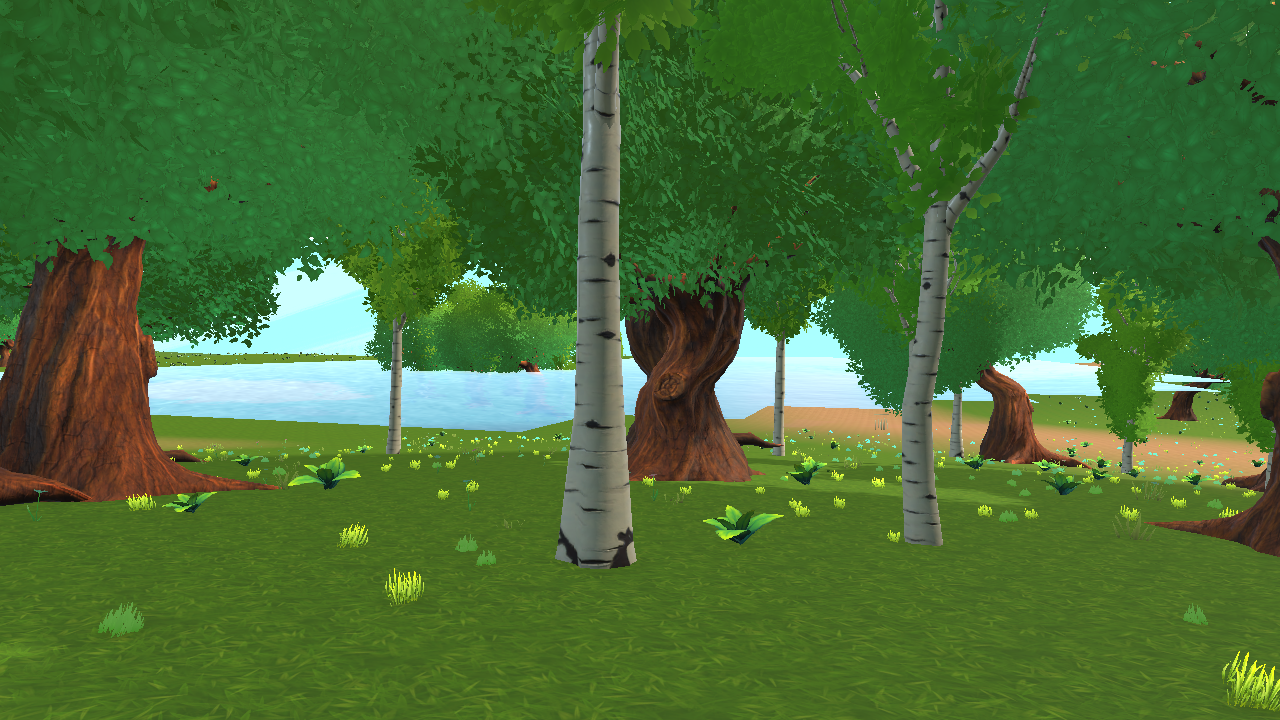
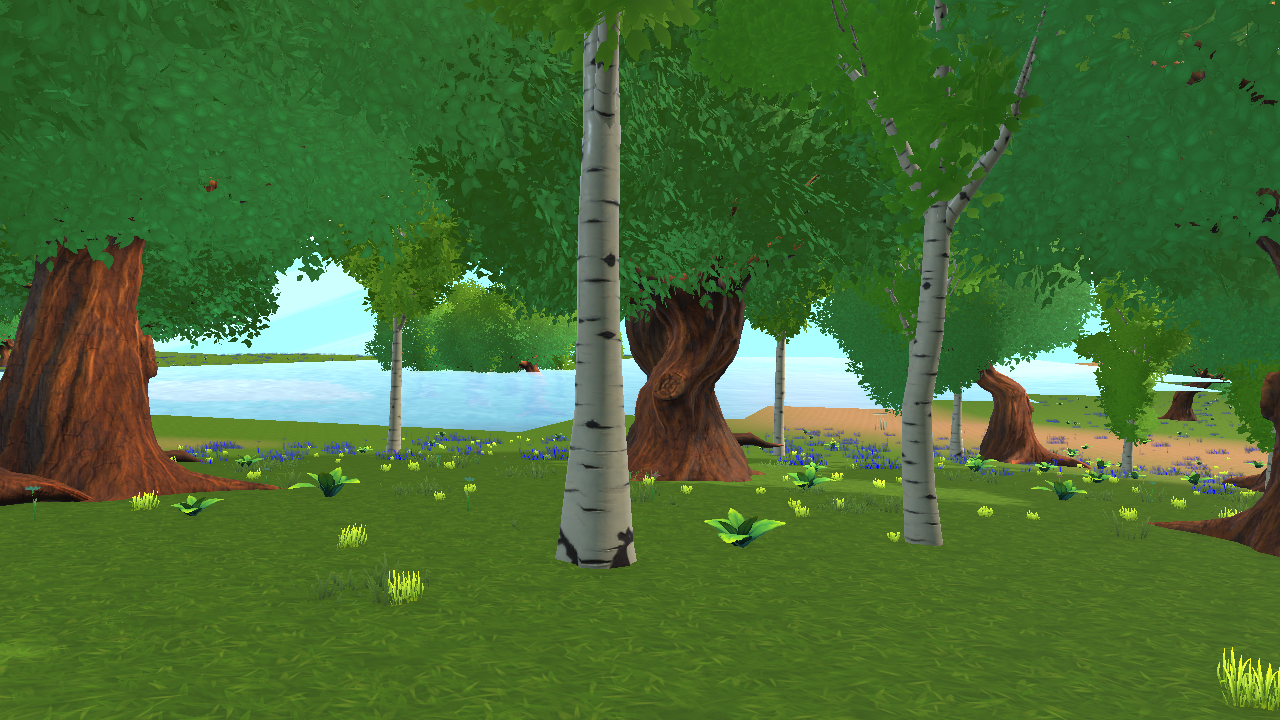
TD-132: THE VENDOR'S OWN MANUAL ANSWERED FOUR FAILED ATTEMPTS IN ONE SENTENCE (D-248)
EP order: read the asset vendor's readme and how the environment is meant to be set up.
Nobody ever had. Both packs ship a PDF, and the Village Pack's chapter "Environment
setup - Terrain Tool" says, verbatim:

  "It's important to note that bushes/leaves and grass will not work on the terrain as
   'Detail Objects' or 'Grass Texture'. The prefabs should be added as 'Tree Objects',
   because the built-in grass shader would otherwise override our custom shaders.
   This is not a limitation of the package, but rather a limitation of Unity."

That is the whole story. D-215d tried the detail system three ways -- instanced mesh,
non-instanced mesh, billboard -- and got 1,27M blades Unity itself validated and that
could not be seen at three metres. D-246 abandoned it and scattered 100 000 real
MeshRenderers instead, at double the frame time. NEITHER PATH COULD HAVE WORKED: Unity's
detail renderer SUBSTITUTES its own grass shader for the prefab's material, and the only
reason these plants look like anything is the pack's TidalFlask wind shader with its
ground fade and wind tint.

Verified before rebuilding anything: the pack's grass prefabs carry 0 colliders and a
LODGroup each -- authored for the tree system -- and the shader's ground fade reads UV,
not object Y, which was the one real risk in our old mesh merge.

Same placement law to the hash (not a blade moved); the blades are now sown as
TreeInstances instead of instantiated and merged. treeDistance 260 m, no billboards.
[…]

diff --git a/Assets/Emergence/Fas3/Runtime/Fas3NatureScatter.cs b/Assets/Emergence/Fas3/Runtime/Fas3NatureScatter.cs
@@ -125,6 +125,7 @@ namespace Emergence.Runtime
             tuftRoot.SetParent(parent, false);
             // where the eye stands. A flag per tile beats a distance test per tuft, and it is a pure
             // read of exported hut positions - no RNG, so two runs of one world grow the same meadow.
+            var treeInstances = new List<TreeInstance>();
             bool[] near = null;
             if (S.huts != null && S.huts.Length > 0)
             {
@@ -173,9 +174,9 @@ namespace Emergence.Runtime
                     // grass tufts on open meadow and forest floor - the ground the player walks on.
                     // Kept under their OWN parent so the batching pass can find them without guessing.
                     if ((t == 'g' || t == 'f') && tufts.Count > 0)
-                        tuftN += Place(S, tuftRoot, tufts, x, y,
-                                       near != null && near[y * S.W + x] ? TuftsNearSettlement : TuftsPerMeadowTile,
-                                       59, ref budget, Bed.Tuft, true);
+                        tuftN += SowTufts(S, tufts, x, y,
+                                          near != null && near[y * S.W + x] ? TuftsNearSettlement : TuftsPerMeadowTile,
+                                          59, ref budget, treeInstances);
 
                     if (budget >= PlacementsPerFrame) { budget = 0; yield return null; }
                 }
@@ -199,12 +200,11 @@ namespace Emergence.Runtime
             // read as texture, and the next move is NOT a fourth density guess -- it is the height of
             // one tuft in metres, which nobody had ever printed. Sampled before the merge, because a
             // merged block has no individual bounds left to ask.
-            TuftHeightNote = MeasureTufts(tuftRoot);
-            int tuftDrawn = CombineTufts(tuftRoot);
+            int tuftDrawn = SowMeadow(S, tufts, treeInstances);
 
             Placed = treeN + rockN + bushN + trunkN + tuftN;
             LastNote = "nature: " + treeN + " trees, " + rockN + " rocks, " + bushN + " bushes, " + trunkN + " fallen trunks, "
-                     + tuftN + " grass tufts merged into " + tuftDrawn + " meshes"
+                     + tuftN + " grass tufts sown as terrain trees (" + tuftDrawn + " prototypes)"
                      + "  (sets: " + trees.Count + "/" + rocks.Count + "/" + bushes.Count + "/" + tufts.Count + ")";
             LastNote += "  | " + TuftHeightNote;
         }
@@ -213,6 +213,118 @@ namespace Emergence.Runtime
         /// which is coarse enough to collapse the count and fine enough that frustum culling still
         /// throws most of the meadow away. Returns the number of renderers left standing.</summary>
         const float TuftBlock = 48f;
+
+
+        // ---- THE MEADOW, THE WAY THE PACK'S OWN DOCUMENTATION SAYS TO BUILD IT (D-248) ----
+        //
+        // From "Documentation - FANTASTIC Village Pack", chapter "Environment setup - Terrain Tool",
+        // in the vendor's own words:
+        //
+        //     "It's important to note that bushes/leaves and grass will not work on the terrain as
+        //      'Detail Objects' or 'Grass Texture'. The prefabs should be added as 'Tree Objects',
+        //      because the built-in grass shader would otherwise override our custom shaders.
+        //      This is not a limitation of the package, but rather a limitation of Unity."
+        //
+        // That paragraph is the answer to four failed attempts. D-215d tried the detail system three
+        // ways (instanced mesh, non-instanced mesh, billboard) and got a validated million blades that
+        // drew nothing usable; D-246 gave up on it and scattered a hundred thousand MeshRenderers
+        // instead, which cost double the frame time for a meadow that still read thin. The detail
+        // path was never going to work with this pack, because Unity's detail renderer SUBSTITUTES
+        // its own grass shader for the material on the prefab -- and the whole reason these plants
+        // look like anything is the pack's TidalFlask wind shader, with its ground fade and its wind
+        // tint. The terrain TREE system keeps the prefab's own material, and the pack ships every one
+        // of these plants with a LODGroup already on it, which is the shape the tree renderer wants.
+        //
+        // So: same placement law as before, to the hash -- the meadow does not move a blade -- but
+        // the blades are sown as tree instances rather than instantiated and merged. Unity culls and
+        // LODs them for us, the wind shader survives, and the frame stops paying for a hundred
+        // thousand renderers. Deterministic: every position, pick and size is hash(tile, index).
+        static int SowTufts(WorldState S, List<GameObject> set, int x, int y, float perTile, int salt,
+                            ref int budget, List<TreeInstance> outp)
+        {
+            if (set.Count == 0) return 0;
+            // identical clumping to Place(): some tiles crowd, others stay open
+            perTile *= 0.30f + 1.55f * Mathf.PerlinNoise(x * 0.17f + salt * 0.31f, y * 0.17f + salt * 0.13f);
+            int count = Mathf.FloorToInt(perTile) + (Hash01(x, y, salt) < perTile - Mathf.Floor(perTile) ? 1 : 0);
+            var terrain = Terrain.activeTerrain;
+            if (terrain == null) return 0;
+            var td = terrain.terrainData;
+            var origin = terrain.transform.position;
+
+            for (int i = 0; i < count; i++)
+            {
+                int proto = (int)(Hash(x, y, salt + 100 + i) % (uint)set.Count);
+                float jx = Hash01(x, y, salt + 200 + i) - 0.5f, jy = Hash01(x, y, salt + 300 + i) - 0.5f;
+                var w = Ground(S, x + jx * 0.98f, y + jy * 0.98f);
+
+                // the same size law the scattered version used, kept so the picture is comparable:
+                // the pack's own plants sit in one band, the Dreamscape detail props in the other.
+                var name = set[proto].name;
+                float sc = name.StartsWith("P_ENV")
+                    ? 0.38f + Hash01(x, y, salt + 600 + i) * 0.34f
+                    : 0.45f + Hash01(x, y, salt + 600 + i) * 0.50f;
+
+                float nx = (w.x - origin.x) / td.size.x;
+                float nz = (w.z - origin.z) / td.size.z;
+                if (nx < 0f || nz < 0f || nx > 1f || nz > 1f) continue;   // off the terrain is not a place
+
+                outp.Add(new TreeInstance
+                {
+                    position       = new Vector3(nx, 0f, nz),   // snapped to the heightmap on apply
+                    prototypeIndex = proto,
+                    widthScale     = sc,
+                    heightScale    = sc,
+                    rotation       = (Hash(x, y, salt + 400 + i) % 360u) * Mathf.Deg2Rad,
+                    color          = Color.white,
+                    lightmapColor  = Color.white
+                });
+                budget++;
+            }
+            return count;
+        }
+
+        /// <summary>Hand the whole meadow to the terrain in one call and tell it how far to draw.
+        /// Returns the prototype count so the report can say what the world is made of.</summary>
+        static int SowMeadow(WorldState S, List<GameObject> set, List<TreeInstance> instances)
+        {
+            var terrain = Terrain.activeTerrain;
+            if (terrain == null || set.Count == 0) { TuftHeightNote = "tufts: no terrain to sow into"; return 0; }
+            var td = terrain.terrainData;
+
+            var protos = new TreePrototype[set.Count];
+            for (int i = 0; i < set.Count; i++) protos[i] = new TreePrototype { prefab = set[i], bendFactor = 0f };
+            td.treePrototypes = protos;
+            td.SetTreeInstances(instances.ToArray(), true);   // true = snap each one to the heightmap
+
+            // Grass is not a landmark: draw it near, drop it far. Billboards are left off because
+            // these prefabs carry no billboard asset -- a grass blade at 200 m is one pixel and is
+            // better culled than faked.
+            terrain.treeDistance = 260f;
+            terrain.treeBillboardDistance = 0f;
+            terrain.treeCrossFadeLength = 25f;
+            terrain.treeMaximumFullLODCount = 0;
+            terrain.Flush();
+
+            // the blade, in metres, against the 1,75 m yardstick — measured from the prototypes and
+            // the size law rather than from instantiated objects, because there are none any more.
+            float lo = float.MaxValue, hi = 0f, sum = 0f; int n = 0;
+            foreach (var pf in set)
+            {
+                if (pf == null) continue;
+                var rs = pf.GetComponentsInChildren<Renderer>(true);
+                if (rs.Length == 0) continue;
+                var b = rs[0].bounds;
+                for (int k = 1; k < rs.Length; k++) b.Encapsulate(rs[k].bounds);
+                float mid = b.size.y * (pf.name.StartsWith("P_ENV") ? 0.55f : 0.70f);
+                if (mid <= 0f) continue;
+                lo = Mathf.Min(lo, mid); hi = Mathf.Max(hi, mid); sum += mid; n++;
+            }
+            TuftHeightNote = n == 0
+                ? "tufts: no bounds"
+                : "tuft height " + (sum / n).ToString("F2") + " m mean (" + lo.ToString("F2") + ".." + hi.ToString("F2")
+                  + "), " + (sum / n / 1.75f * 100f).ToString("F0") + "% of a person; sown as terrain trees per the pack's own manual";
+            return set.Count;
+        }
 
         /// <summary>The tuft, in metres, against the 1,75 m yardstick. A meadow the eye can read
         /// wants roughly knee height; anything under ~0,25 m is a texture no matter how many there are.</summary>
